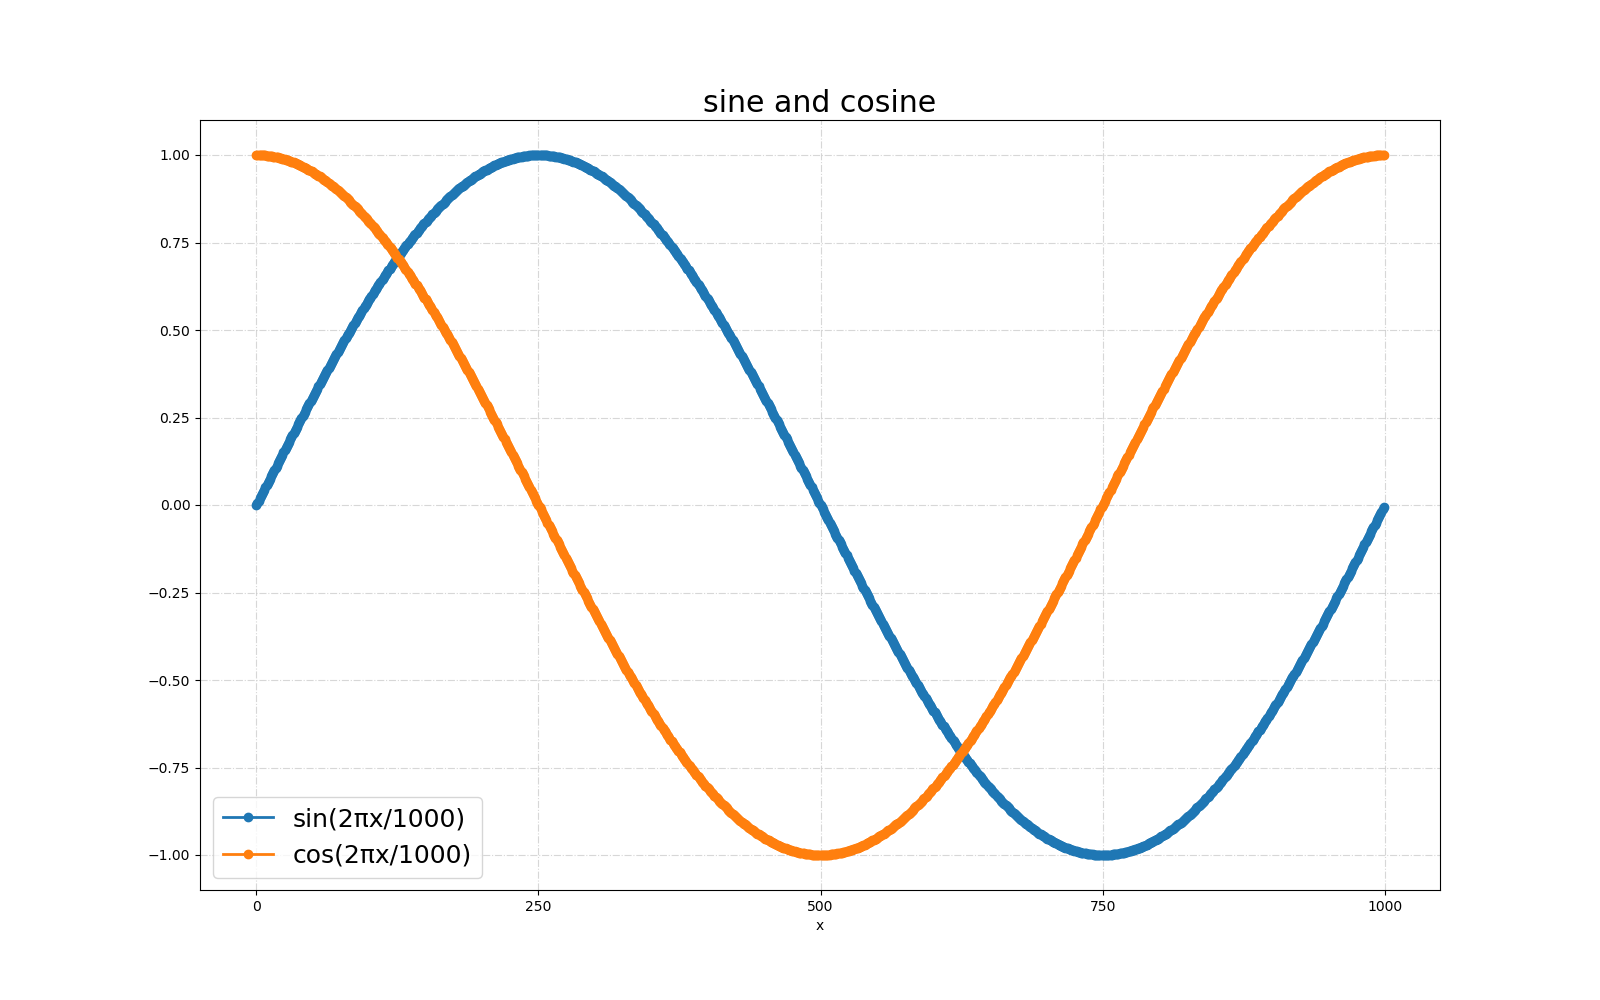
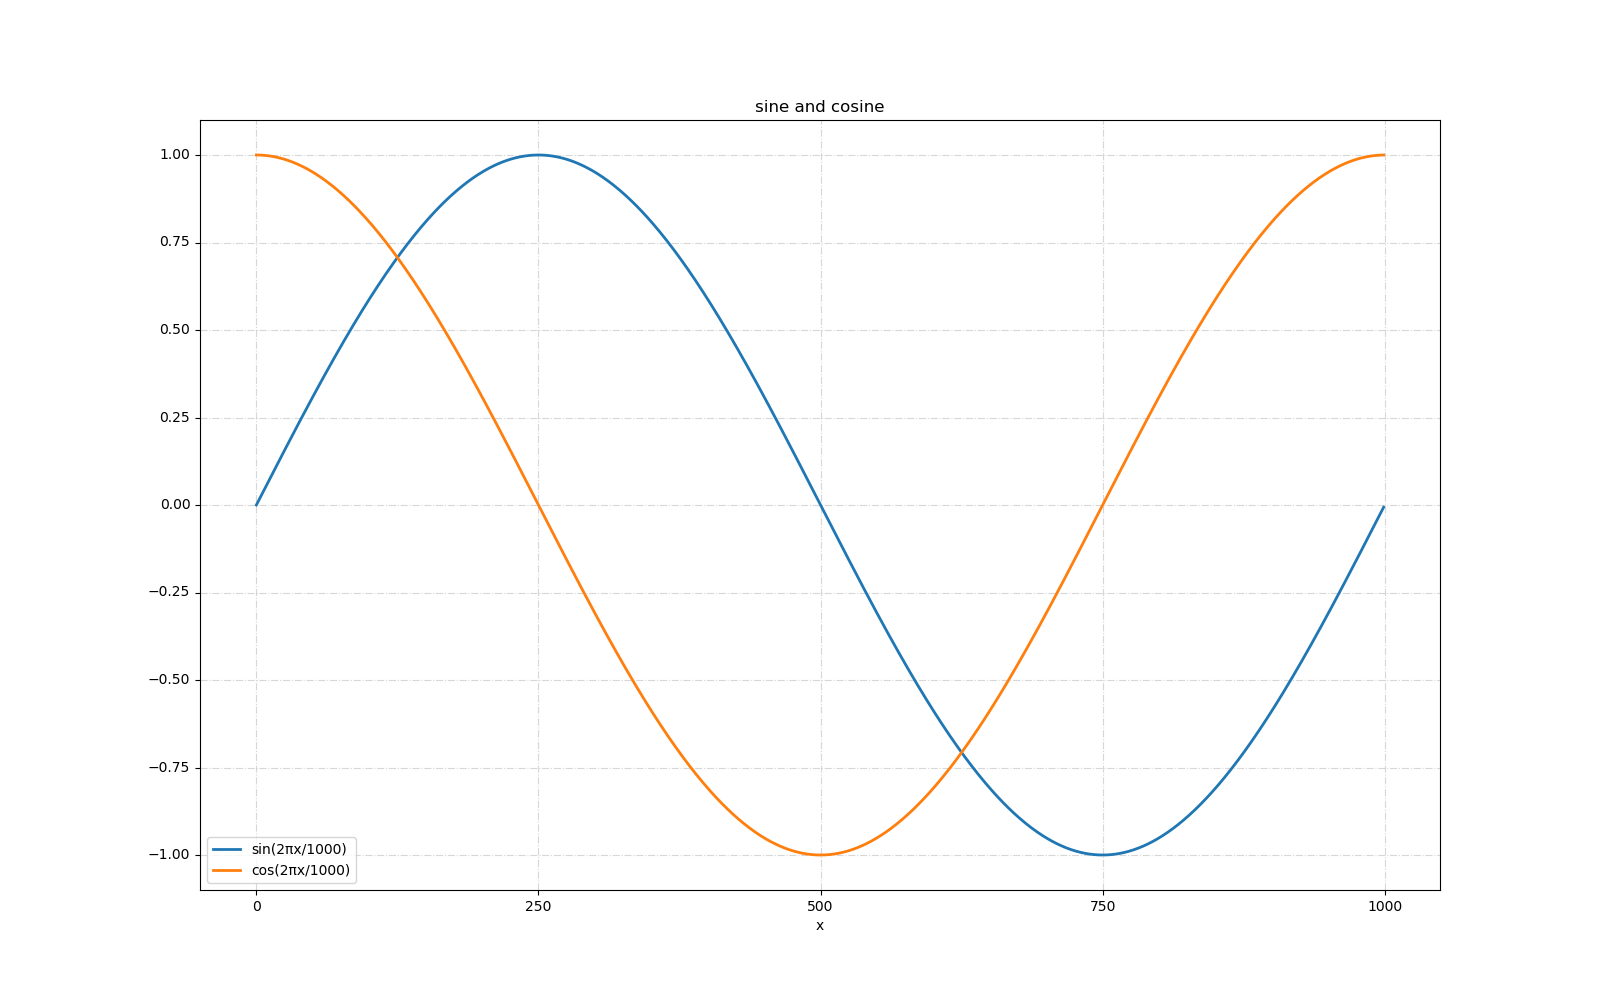
Version 0.0.6
Made ycol default to every column besides the xcol

diff --git a/graph_cli/graph_cli/options.py b/graph_cli/graph_cli/options.py
@@ -35,9 +35,13 @@ def validate_args(args):
     df = pd.read_csv(args.file)
 
     # get column names from integers
-    ycols = [get_column_name(df, y) for y in args.ycol]
-    args.ycol = [ycol for ycol in ycols if ycol is not None]
     args.xcol = [get_column_name(df, x) for x in args.xcol]
+    if args.ycol is None:
+        # ycol default is every column besides xcols
+        ycols = [col for col in df.columns if col not in args.xcol]
+    else:
+        ycols = [get_column_name(df, y) for y in args.ycol]
+    args.ycol = [ycol for ycol in ycols if ycol is not None]
 
     if args.bar and args.barh:
         logging.warning('Both --bar and --barh given. Using --bar')
@@ -211,8 +215,8 @@ def parse_args():
             help='the column number or name to use for the x-axis (default: 1)',
             default='1')
     parser.add_argument('--ycol', '-y', metavar='COL', type=str,
-            help='the column number or name to use for the y-axis (default: 2)',
-            default='2')
+            help='the column number or name to use for the y-axis (default: all other columns)',
+            default=None)
     parser.add_argument('--legend', '-l', metavar='LEGEND', type=str,
             help='the label name for the legend (default: match ycol)')
     parser.add_argument('--color', '-c', metavar='COLOR', type=str,

diff --git a/graph_cli/setup.py b/graph_cli/setup.py
@@ -5,7 +5,7 @@ with open("README.md", "r") as fh:
 
 setuptools.setup(
     name="graph_cli",
-    version="0.0.5",
+    version="0.0.6",
     author="miccah",
     author_email="m.castorina93@gmail.com",
     description="A CLI utility to create graphs from CSV files.",

diff --git a/README.md b/README.md
@@ -18,14 +18,14 @@ graph samples/sine.csv -o sine.png
 ![sine](screenshots/sine.png)
 
 ```
-graph samples/sine.csv --chain  \
-| graph samples/cosine.csv --title 'sine and cosine' \
-  --ylabel '' --xscale 250 -o sine-cosine.png
+graph samples/sine.csv --marker '' --chain | \
+graph samples/cosine.csv --title 'sine and cosine' \
+  --ylabel '' --xscale 250 --marker '' -o sine-cosine.png
 ```
 
 ```
-graph samples/sine-cosine.csv -y 2,3 --title 'sine and cosine' \
-  --ylabel '' --xscale 250 -o sine-cosine.png
+graph samples/sine-cosine.csv --title 'sine and cosine' \
+  --ylabel '' --xscale 250 --marker '' -o sine-cosine.png
 ```
 
 ![sine-cosine](screenshots/sine-cosine.png)
